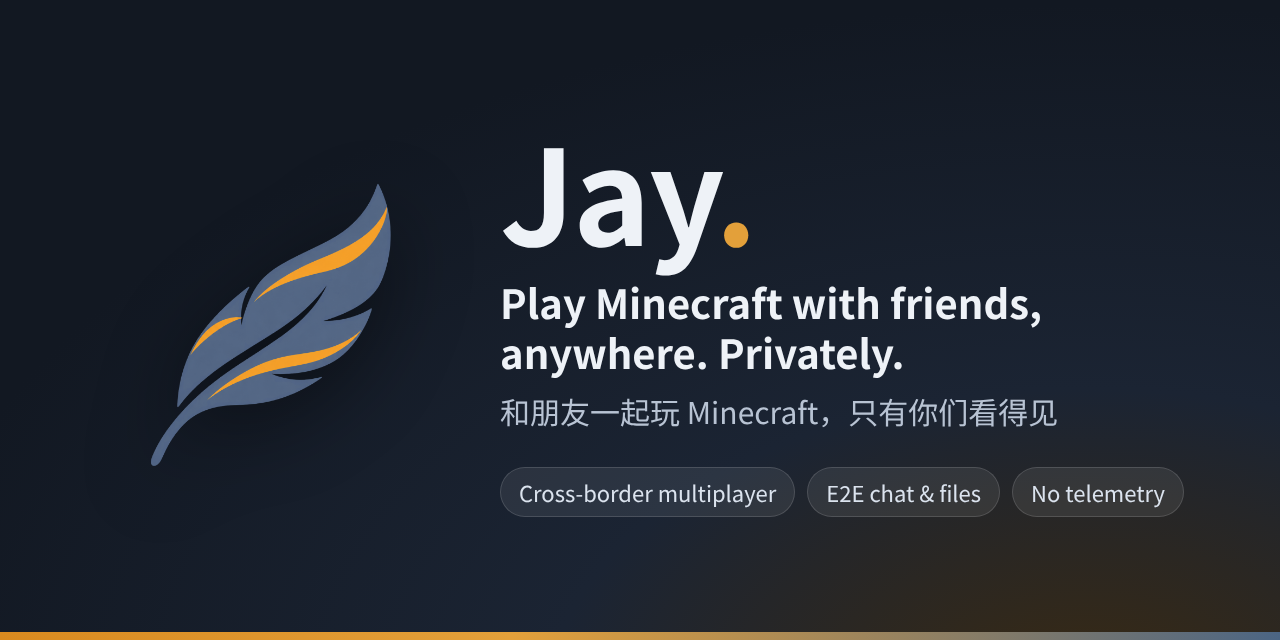
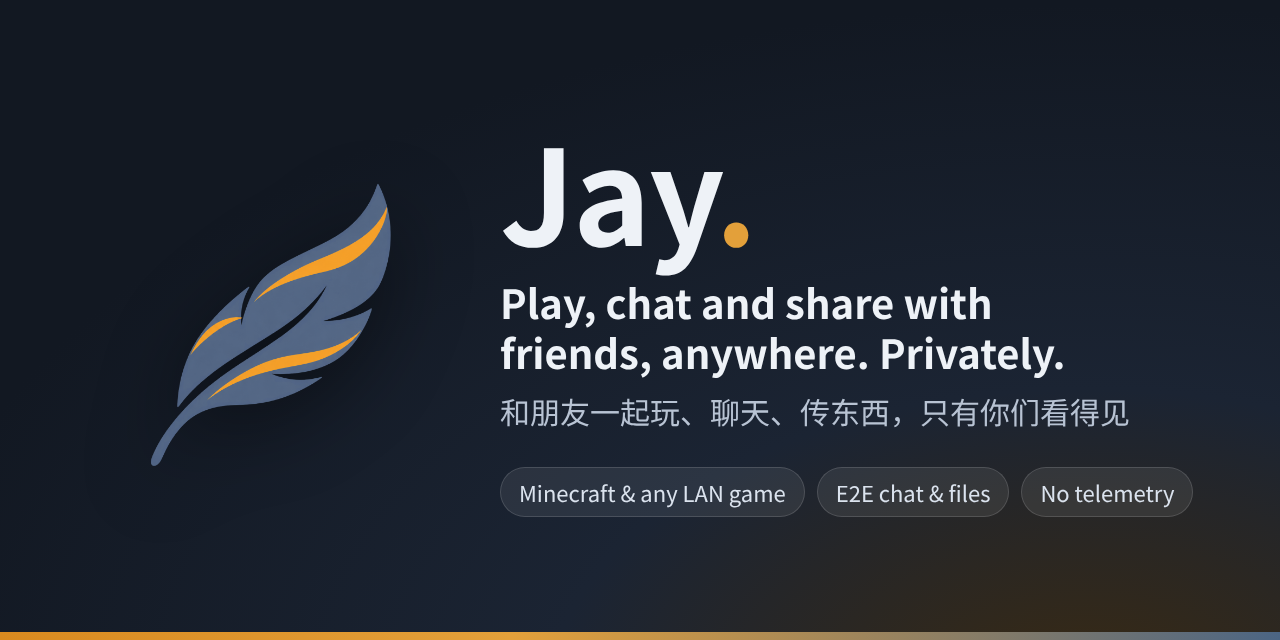
README: position Jay as more than a Minecraft launcher
Lead with playing, chatting and sharing with friends: any LAN game
through full-LAN mode, end-to-end encrypted group and private chat,
file transfer, remote help and borrowing a friend's connection. Use a
room screenshot with chat as the hero image, add an 'Is Jay only for
Minecraft?' FAQ, and refresh the social preview text.

Claude-Session: https://claude.ai/code/session_01SUtEzcZxmsN57QVFmmcmfb

diff --git a/README.md b/README.md
@@ -4,10 +4,10 @@
 
 # Jay
 
-### Play Minecraft with your friends, anywhere. Privately.
+### A private place for you and your friends: play, chat, share. Minecraft launcher built in.
 
-An open-source launcher for Minecraft: Java Edition with built-in cross-border and LAN multiplayer,<br>
-end-to-end encrypted chat and file transfer, and no telemetry at all.
+Play Minecraft or any LAN game together across borders, chat and send files end to end encrypted,<br>
+help a friend with remote control, or borrow a friend's connection. Open source, no telemetry at all.
 
 [![Latest release](https://img.shields.io/github/v/release/warriorleavestar/jay-launcher?color=d98a1f&label=release)](https://github.com/warriorleavestar/jay-launcher/releases/latest)
 [![Build](https://img.shields.io/github/actions/workflow/status/warriorleavestar/jay-launcher/build.yml?branch=main&label=build)](https://github.com/warriorleavestar/jay-launcher/actions/workflows/build.yml)
@@ -19,7 +19,7 @@ end-to-end encrypted chat and file transfer, and no telemetry at all.
 
 **English** · [简体中文](README.zh-Hans.md) · [Download](#download) · [Features](#features) · [Privacy](#privacy) · [FAQ](#faq) · [Contributing](CONTRIBUTING.md)
 
-<img src="docs/images/readme/en/library.png" alt="Jay's game library" width="860">
+<img src="docs/images/readme/en/room.png" alt="A Jay room: people, encrypted group chat and private messages" width="860">
 
 </div>
 
@@ -27,23 +27,32 @@ end-to-end encrypted chat and file transfer, and no telemetry at all.
 
 <table>
 <tr>
-<td width="33%" valign="top">
+<td width="50%" valign="top">
 
-### 🌏 Play together, anywhere
+### 🌏 Your friends, one LAN
 
-Share an invite, your friend "knocks", you let them in. Jay tries a direct connection first (IPv6, UPnP, hole punching) and only falls back to a relay when it has to. Works across countries, across networks and on the same LAN.
+Share an invite, your friend "knocks", you let them in, and you are on the same virtual LAN wherever you live. Minecraft, other LAN games and LAN apps just work. Jay connects directly when it can and only relays when it has to.
 
 </td>
-<td width="33%" valign="top">
+<td width="50%" valign="top">
+
+### 💬 Chat and share, end to end
+
+Group chat for the room, private messages to one friend, and file transfer, all end-to-end encrypted with each person's own key. Relay nodes see nothing. Need a hand? Ask to remote-control a friend's screen, with their OK every time.
+
+</td>
+</tr>
+<tr>
+<td width="50%" valign="top">
 
 ### 🔒 Private by design
 
-Every member gets their own key. Invites are single-use and expire; leaked codes are useless. Chat, private messages and file transfer are encrypted end to end, so relay nodes can't read them. No telemetry, no device ID, no remote switches.
+Invites are single-use and expire; leaked codes are useless. Nobody gets in without your approval, and kicking someone rotates the room key. No telemetry, no device ID, no remote switches, and no Jay server in the middle.
 
 </td>
-<td width="33%" valign="top">
+<td width="50%" valign="top">
 
-### 🪶 Light and complete
+### 🎮 A full Minecraft launcher
 
 The window opens in about 0.3 s. Fabric, Quilt, Forge, NeoForge and OptiFine in one click, Modrinth and CurseForge built in, modpack import and export, and crash analysis that tells you which mod to blame.
 
@@ -105,15 +114,17 @@ Jay's window needs a desktop session (X11, or Wayland with XWayland) and the lib
 
 ## Features
 
-### 🎮 Multiplayer that just works
+### 🌏 Play, chat and share with friends
 
 <img src="docs/images/readme/en/multiplayer.png" alt="Multiplayer page: open a room or join a friend" width="860">
 
-- **Invite and knock.** The host opens the world to LAN and opens a room; a friend pastes the invite and knocks. Nobody gets in until the host approves on a locked pop-up card.
+- **Invite and knock.** The host opens a room (for Minecraft, open your world to LAN first); a friend pastes the invite and knocks. Nobody gets in until the host approves on a locked pop-up card.
+- **Chat and files.** Group chat, private messages and file transfer, end-to-end encrypted with each member's own key, so relay nodes see nothing. Received files land in Downloads/Jay, are never opened for you, and programs get an extra warning.
 - **Direct first, relay last.** Jay tries IPv6, router port mapping (UPnP / NAT-PMP) and IPv4 hole punching with port prediction for strict NATs. With more players a reachable member relays, and a relay node is only used when all of that fails. "Check my network" tells you beforehand how easy you are to reach.
-- **Full-LAN mode.** Everyone gets a virtual IP and LAN broadcasts are forwarded, so other LAN games and apps work too. Members can opt in to route their traffic through one member's PC (exit node, with leak protection). Works on Windows, macOS and Linux.
+- **Any LAN game or app.** Full-LAN mode gives everyone a virtual IP and forwards LAN broadcasts, so other LAN games, file shares and self-hosted tools work between friends as if you were in one room. Works on Windows, macOS and Linux.
+- **Borrow a friend's connection.** With both sides opting in, route your traffic through a friend's PC (exit node, with leak protection). On Windows you can even share that route to your phone through the PC's mobile hotspot ([how](docs/hotspot-sharing.md)).
+- **Remote help.** Ask to see and control a friend's screen to fix something for them. They accept every time, see a red border while it runs, and Ctrl+Shift+F12 stops it at once.
 - **Public rooms** *(experimental)*. Browse a room list, request to join, or protect a room with a password. Rooms are signed by the host, so nobody can fake or replay them.
-- **Chat and files.** Room chat, private messages and file transfer, end-to-end encrypted with each member's own key, so relay nodes see nothing. Program files get an extra warning before you open them.
 - **Practice and diagnose.** A safe drill mode walks you through a knock without touching the network, and the "Connection trouble?" drawer runs a full test matrix and writes a report with secrets removed.
 - **Jay Server** *(experimental)*. Run a Minecraft server only Jay can join, on a VPS or a LAN machine. Players join with a single-use `JAYS1-` invite; unknown connections get not a single byte back.
 
@@ -130,6 +141,8 @@ Built on the open-source [EasyTier](https://github.com/EasyTier/EasyTier) (LGPL-
 - **Locked safety UI.** Knock requests, file warnings and other safety panels look the same under every theme, so a theme can't disguise them.
 
 ### 🧩 Mods, modpacks and loaders
+
+<img src="docs/images/readme/en/library.png" alt="Jay's game library" width="860">
 
 - One-click Fabric, Quilt, Forge (including 1.5.2 and older), NeoForge and OptiFine.
 - Search and install mods, resource packs, shaders, data packs and modpacks from Modrinth and CurseForge, with required dependencies.
@@ -246,6 +259,12 @@ Settings live in `Amber/settings.json` under your system's app-data folder (`%AP
 <summary><b>Windows says it protected my PC. What should I do?</b></summary>
 
 The Windows builds aren't code-signed yet, so SmartScreen may block them. Make sure you downloaded the file from this project's Releases, then choose "More info" → "Run anyway". Release notes will say when signing takes effect; see the [code signing policy](docs/code-signing-policy.md).
+</details>
+
+<details>
+<summary><b>Is Jay only for Minecraft?</b></summary>
+
+No. Minecraft is where it started, but a Jay room is a private network between friends: full-LAN mode carries any LAN game or app, and chat, file transfer, remote help and the exit node work whether or not anyone is playing.
 </details>
 
 <details>
